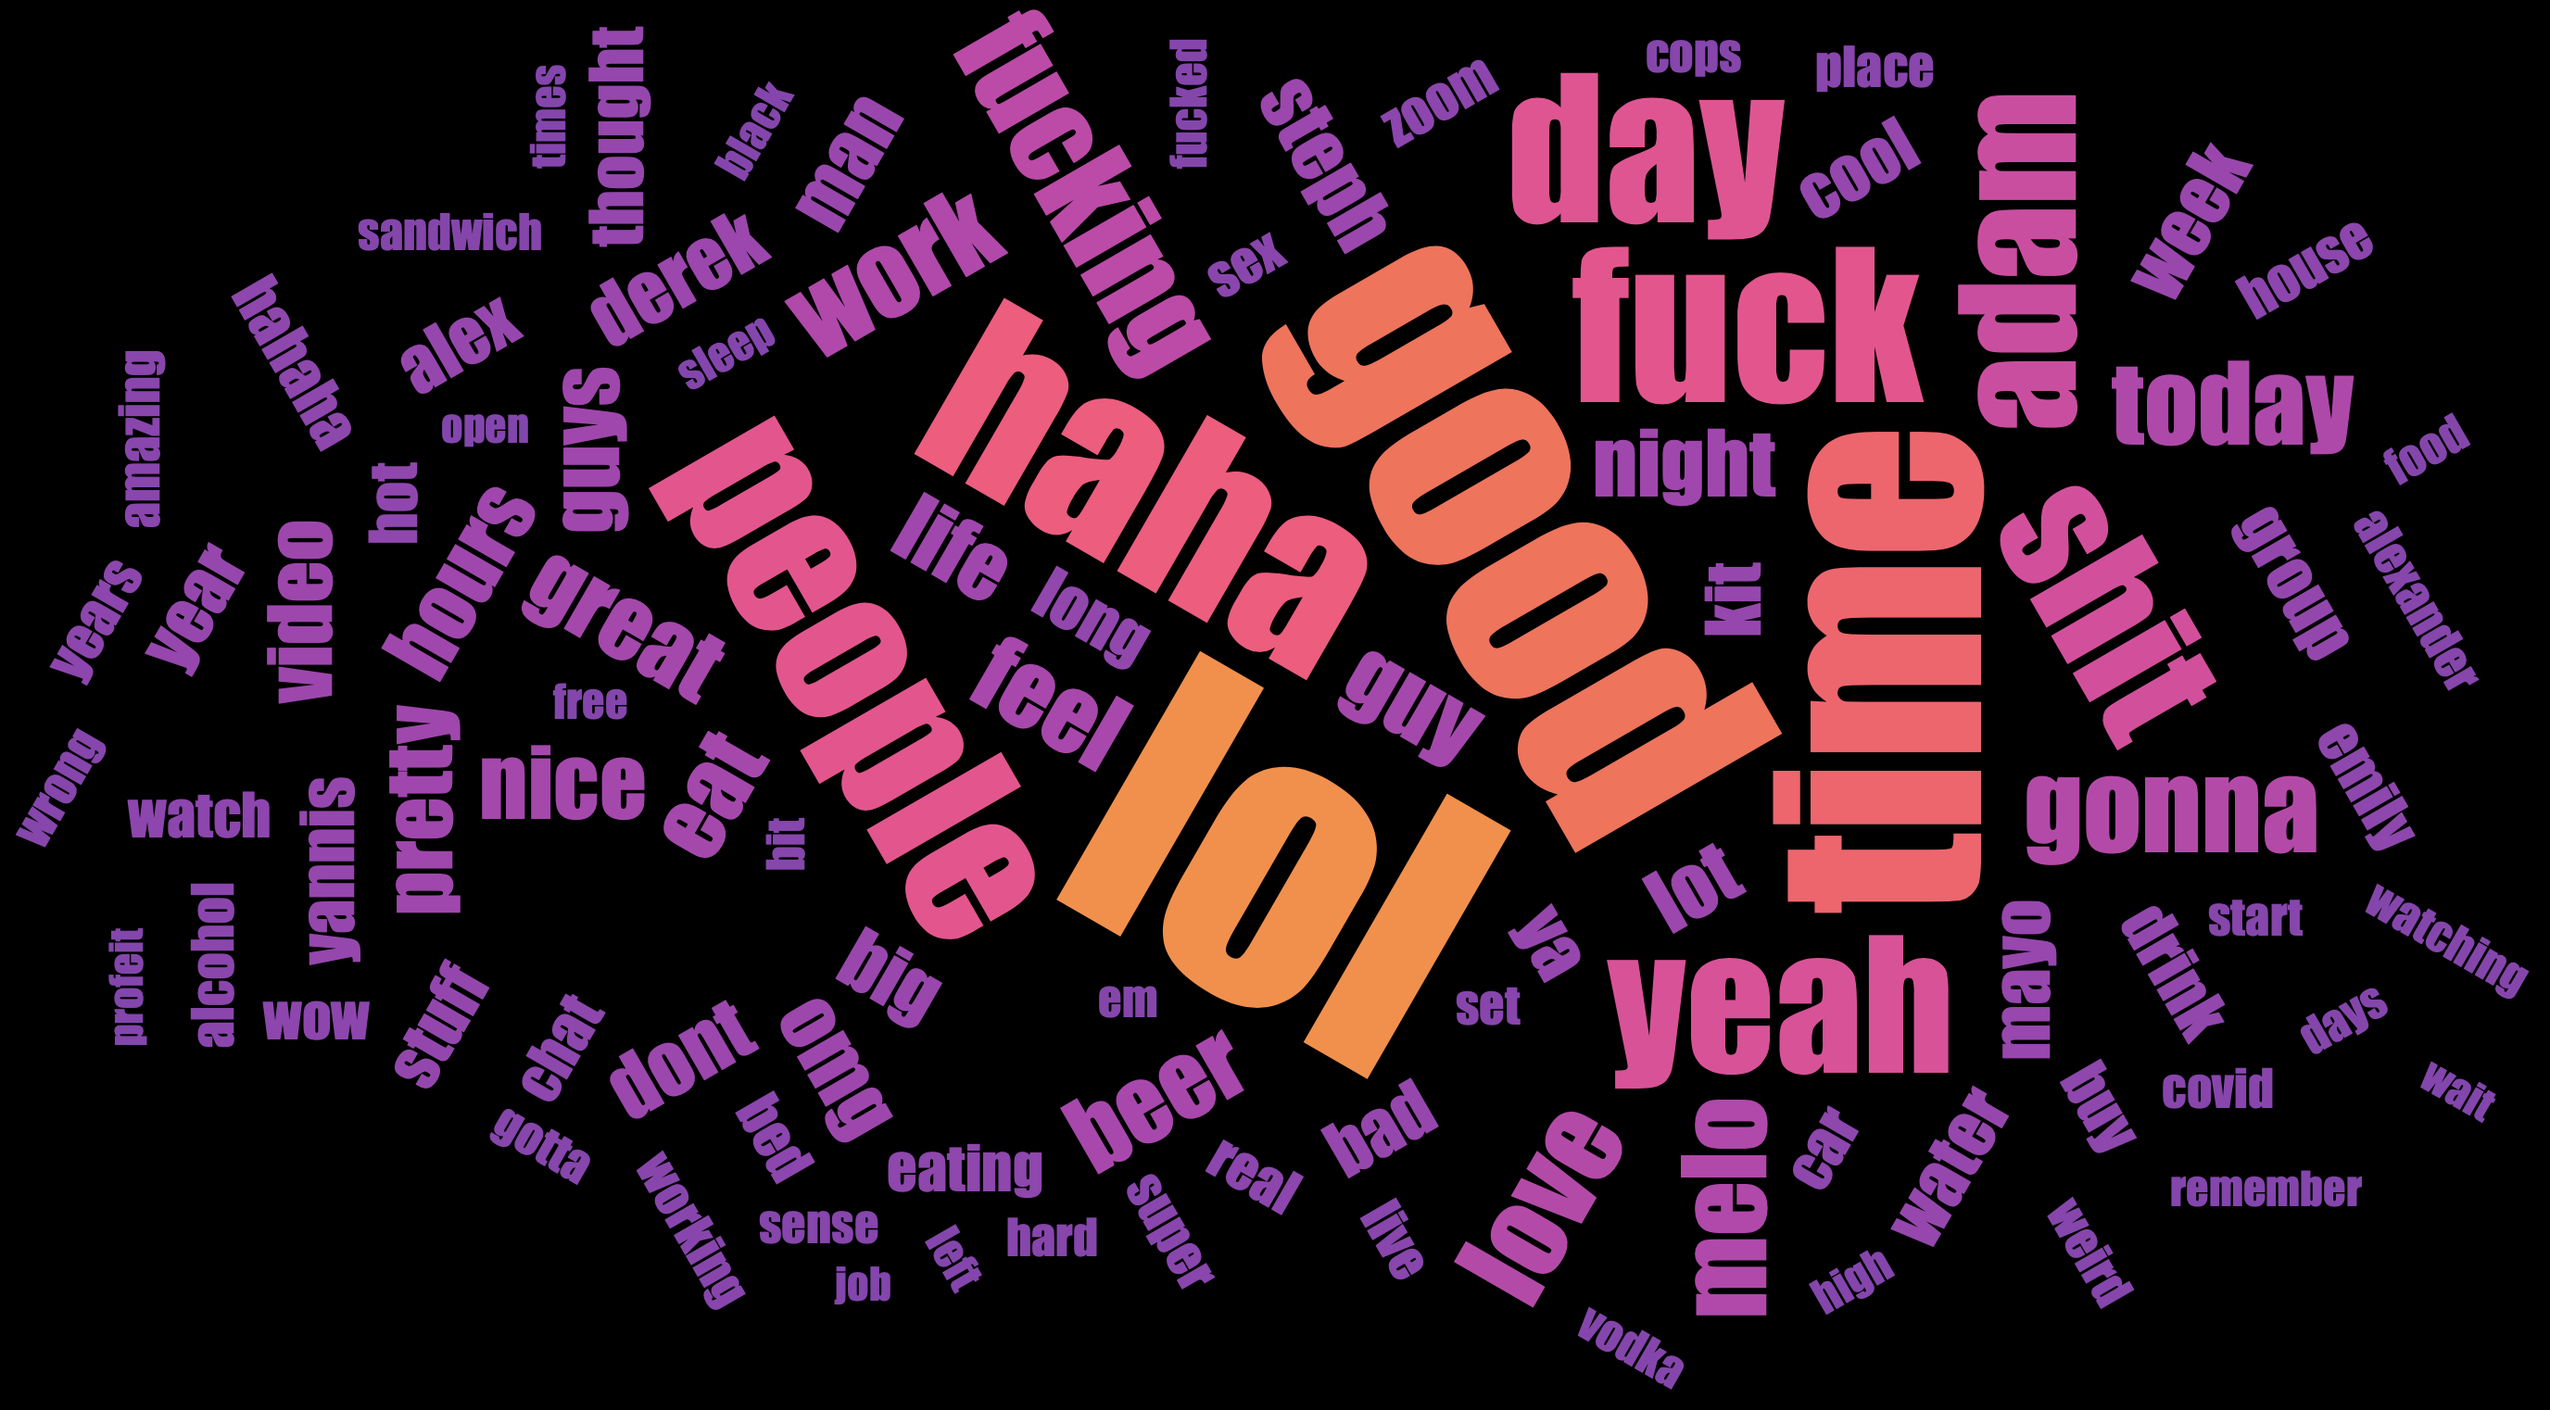
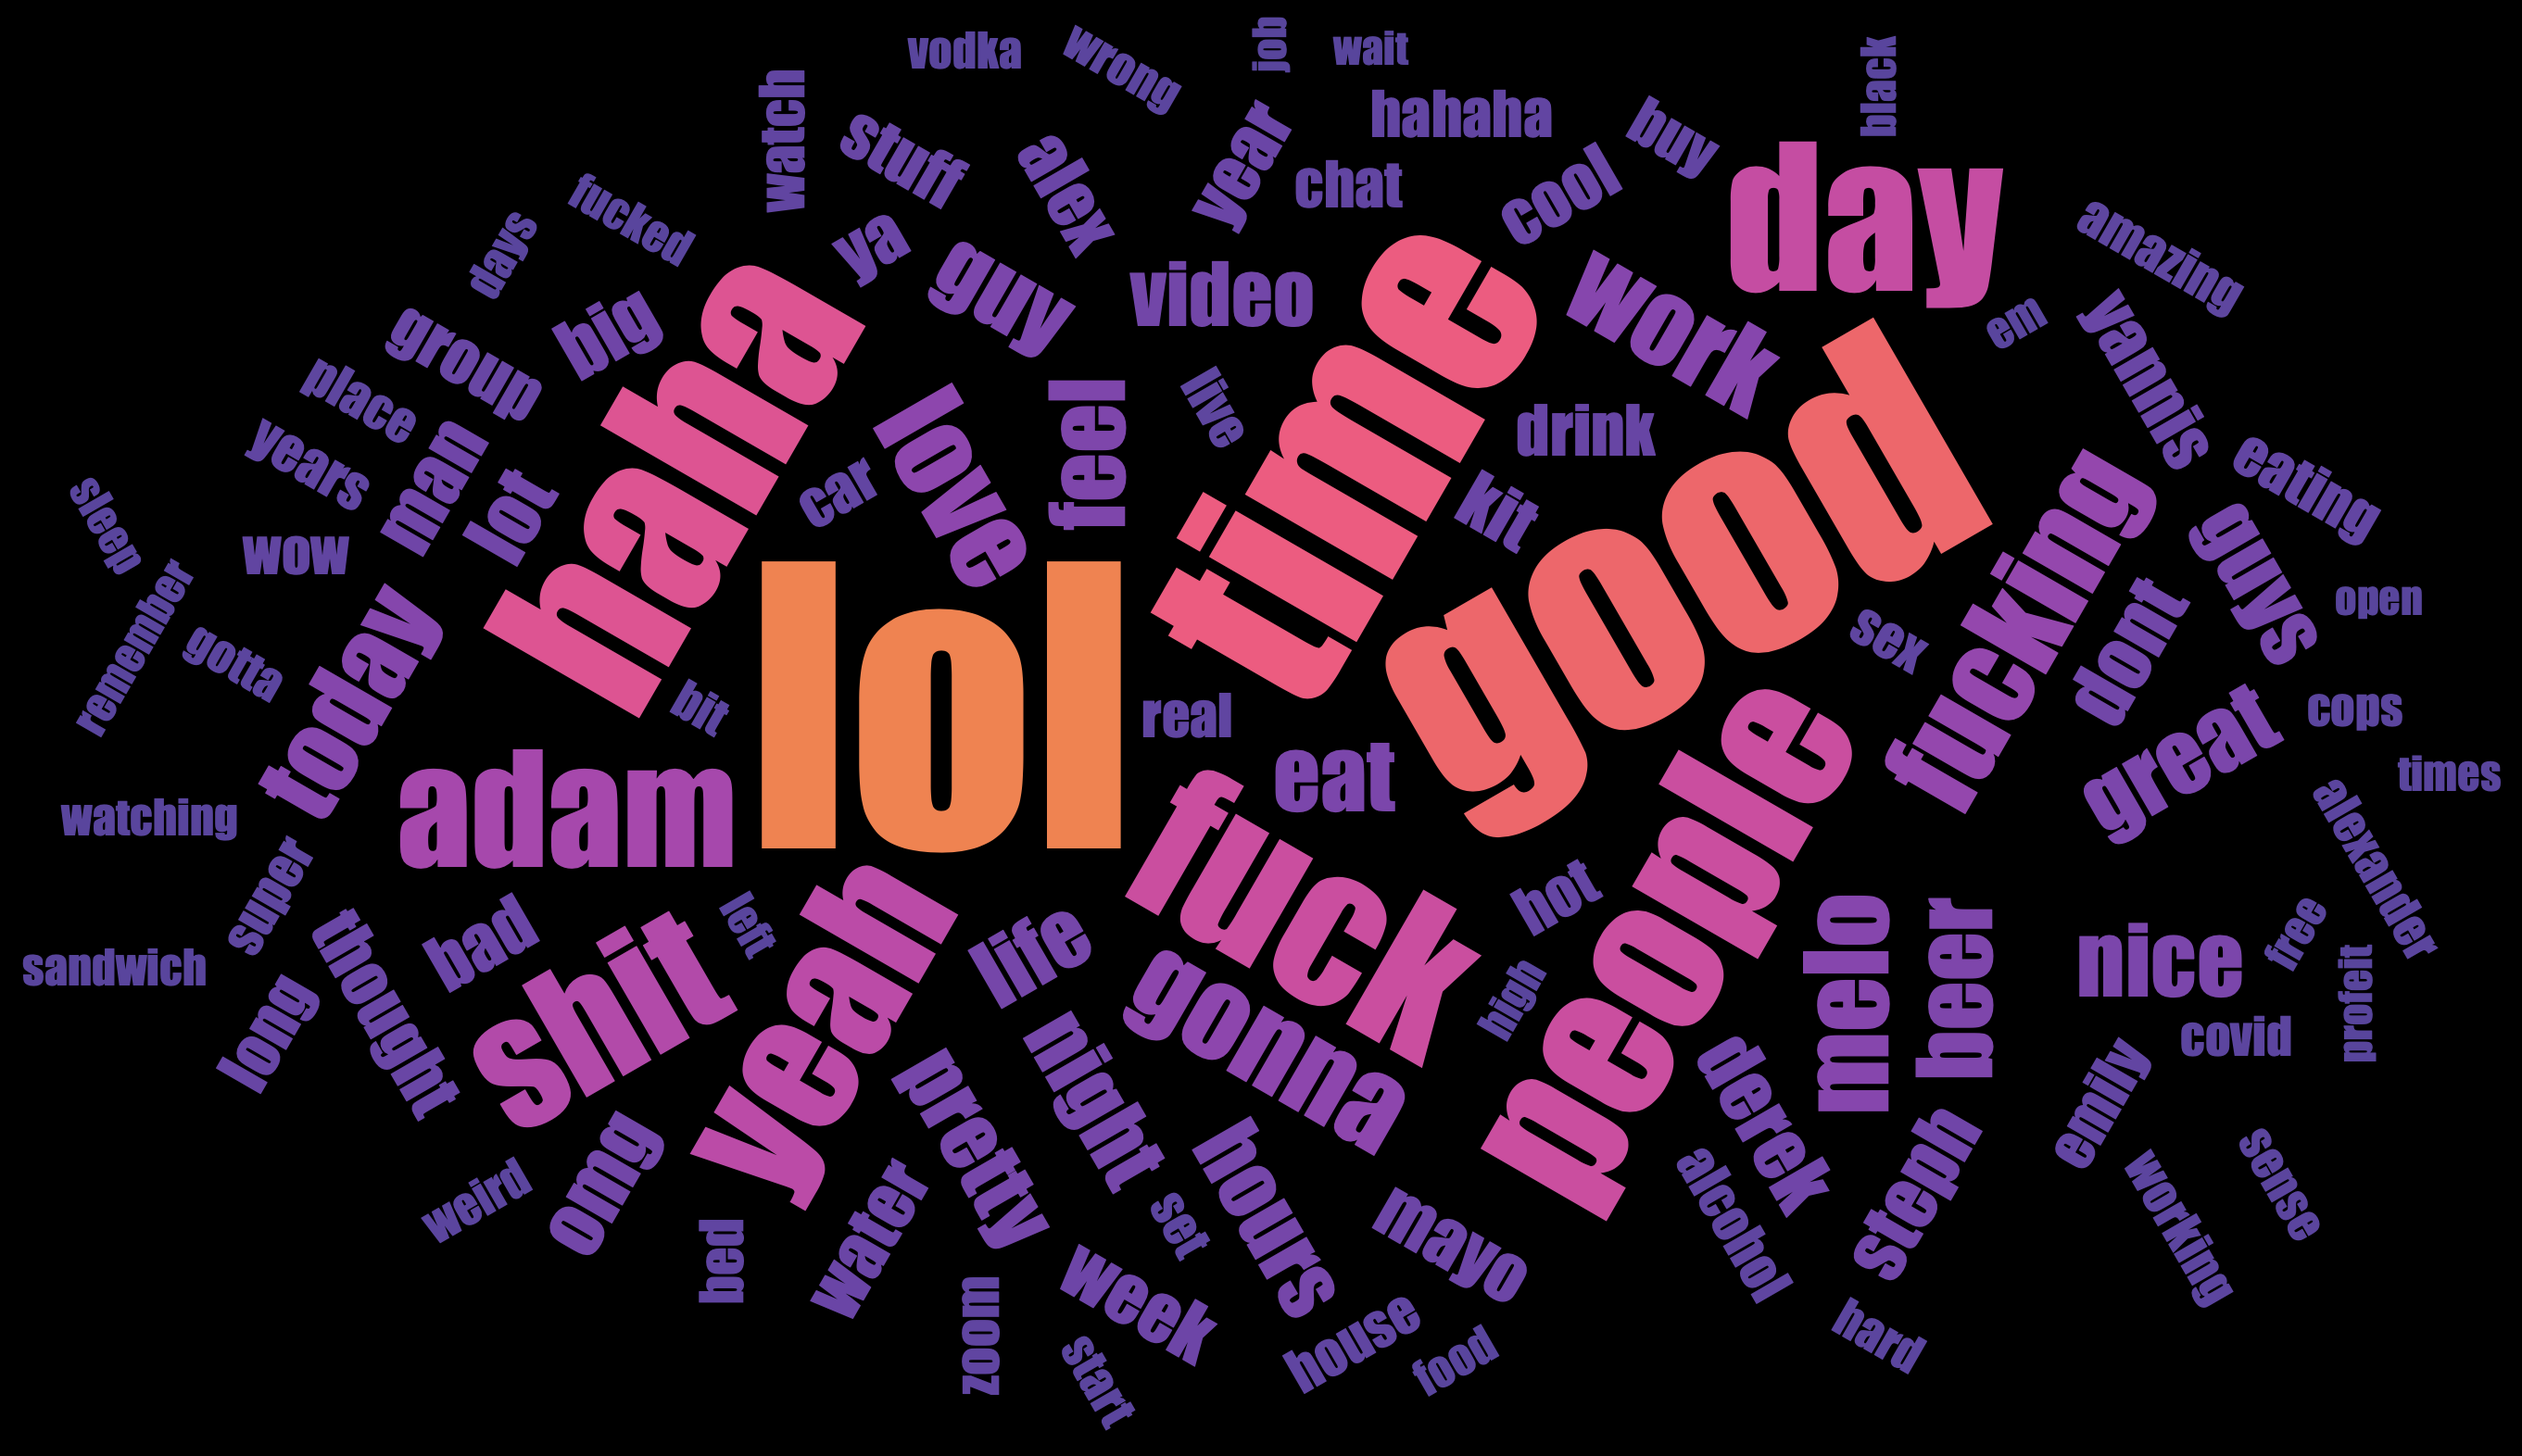
use all the colors

diff --git a/bundle.js b/bundle.js
@@ -13,6 +13,10 @@ var max = d3.max(words.map(function(word) {
   return word.size
 }));
 
+var min = d3.min(words.map(function(word) {
+  return word.size
+}));
+
 var layout = cloud()
   .size([1400, 800])
   .words(words)
@@ -22,8 +26,6 @@ var layout = cloud()
   .on("end", draw);
 
 layout.start();
-
-const theme = "interpolateWarm";
 
 function draw(words) {
   d3.select("body").append("svg")
@@ -36,7 +38,7 @@ function draw(words) {
     .enter().append("text")
     .style("font-size", function(d) { return d.size + "px"; })
     .style("font-family", "Impact")
-    .style("fill", function(d) { return d3.interpolateWarm(d.size / max)})
+    .style("fill", function(d) { return d3.interpolateWarm((d.size - min) / (max - min))})
     .attr("text-anchor", "middle")
     .attr("transform", function(d) {
       return "translate(" + [d.x, d.y] + ")rotate(" + d.rotate + ")";

diff --git a/app.js b/app.js
@@ -12,6 +12,10 @@ var max = d3.max(words.map(function(word) {
   return word.size
 }));
 
+var min = d3.min(words.map(function(word) {
+  return word.size
+}));
+
 var layout = cloud()
   .size([1400, 800])
   .words(words)
@@ -33,7 +37,7 @@ function draw(words) {
     .enter().append("text")
     .style("font-size", function(d) { return d.size + "px"; })
     .style("font-family", "Impact")
-    .style("fill", function(d) { return d3.interpolateWarm(d.size / max)})
+    .style("fill", function(d) { return d3.interpolateWarm((d.size - min) / (max - min))})
     .attr("text-anchor", "middle")
     .attr("transform", function(d) {
       return "translate(" + [d.x, d.y] + ")rotate(" + d.rotate + ")";
